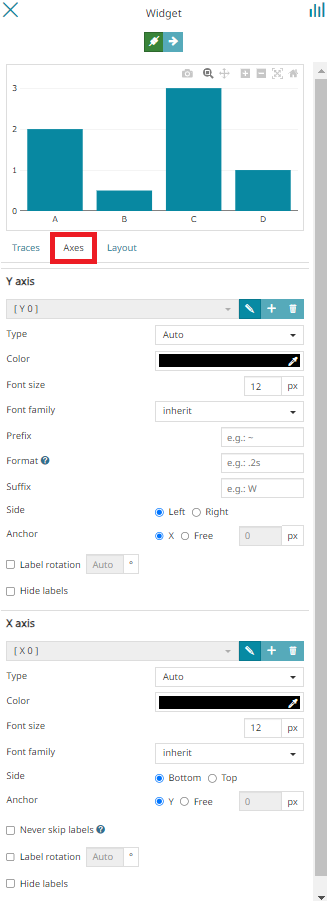
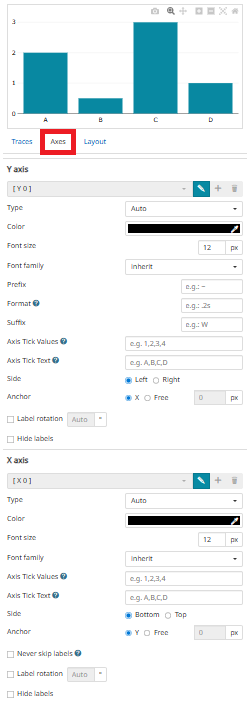
Update User Guide - Slider and APPLY DIMENSION on  Filter Widget and  Custom Tick Labels in Chart Axis (#12427)
(cherry picked from commit a5f585cbd42f79b09509369718d1c13580440a10)

diff --git a/docs/user-guide/widgets.md b/docs/user-guide/widgets.md
@@ -222,7 +222,7 @@ Through this section, for each axis, the user is allowed to:
 * Choose the **Type** (between `Auto`, `Linear`, `Category`, `Log` or `Date`): the axis type is auto-detected by looking at the data (*Auto* option is automatically managed and selected by the tool and it is usually good as default setting).
 
 !!! Note
-    If **`Date`** is selected in the *Type* option, the **Show the Current Time** setting becomes available in the *Axes* panel, allowing you to highlight the current date in the chart.
+    If **`Date`** is selected in the *Type* option, the **Highlight selected time** setting becomes available in the *Axes* panel, allowing you to highlight the current date in the chart.
     <img src="../img/widgets/show-current-time.jpg" class="ms-docimage" style="max-width:300px;"/>
     Once enabled, you can customize the appearance of the current time line using the following options:
     <img src="../img/widgets/customize-current-time.jpg" class="ms-docimage" style="max-width:300px;"/>
@@ -241,6 +241,10 @@ Through this section, for each axis, the user is allowed to:
 
 !!! Note
     More information about the syntax options allowed for **Format** are available [here](https://d3-wiki.readthedocs.io/zh_CN/master/Formatting/) in the online documentation.
+
+* Add **Axis Tick Values**, as comma-separated values, to force the axis to display only these specific points.
+
+* Add **Axis Tick Text**, as custom labels, to replace the text at the positions defined in Axis Tick Values. The alignment is strictly positional (matched by index, one label per value).
 
 * Choose the **Side** of the chart on which to display the axis labels (between `Left` or `Right`)
 
@@ -572,11 +576,17 @@ Once the user chooses to enable the **Title**, it can be customized with the fol
 
 From the **Items**, the user can perform the following actions:
 
-* Modify the type of user interaction with the items by selecting from the dropdown menu: `Checkbox`, `Button`, `Dropdown`, or `Switch`.
+* Modify the type of user interaction with the items by selecting from the dropdown menu: `Checkbox`, `Button`, `Dropdown`, `Switch` or `Slider`.
+
+!!! Warning
+    In order to apply the **Slider**, the *Selection Mode* should be on `Single`.
+
+!!! Note
+    In particular, the **Slider** can be used to view the *Time* or *Elevation* dimension. More information can be found in the following paragraph: [Applying Time and Elevation dimensions](widgets.md#applying-time-and-elevation-dimensions).
 
 <video class="ms-docimage" style="max-width:500px;" controls><source src="../img/widgets/variant-items.mp4"/></video>
 
-* Choose the selection mode for the items: `Single` or `Multiple`.
+* Choose the **Selection Mode** for the items: `Single` or `Multiple`.
 
 * Select the **Direction** of the items: `Vertical` or `Horizontal`.
 
@@ -624,6 +634,41 @@ The user can:
 An example of filter selector widget could be:
 
 <video class="ms-docimage" style="max-width:800px;" controls><source src="../img/widgets/filter-ex.mp4"/></video>
+
+#### Applying Time and Elevation dimensions
+
+The dynamic filter tool can also drive the `time` and `elevation` dimensions of WMS layers, synchronize with the map timeline, or control the *Highlight Selected Time* option of a chart (when not already driven by the timeline). If the value attribute is of type `datetime` or `number` and the selection mode is set to *Single*, the **Apply Dimension** option becomes available in the **Interactions** tab, given that there is at least one valid target available.
+
+A valid target is either a WMS layer exposing a `time` or `elevation` dimension, the *timeline* plugin, if present in the current context, or a chart with the *Highlight Selected Time* option enabled.
+
+To enable the **Apply Dimension** option in a filter, follow these steps:
+
+* In the [Data](widgets.md#data) tab, set the *Values From* option to **Attributes** and select a `datetime` or `number` attribute in the *Value Attribute* field.
+
+<img src="../img/widgets/time-attribute.jpg" class="ms-docimage"  style="max-width:450px;"/>
+
+* In the [Interactions](widgets.md#interactions) tab, click the <img src="../img/button/++++.jpg" class="ms-docbutton"/> button and select the **Apply Dimension** option.
+
+<img src="../img/widgets/apply-dimension-option.jpg" class="ms-docimage"  style="max-width:450px;"/>
+
+* Connect the filter to the layer by clicking the <img src="../img/button/connect-button.jpg" class="ms-docbutton"/> button.
+
+<img src="../img/widgets/connect-dimension.jpg" class="ms-docimage"  style="max-width:450px;"/>
+
+* To connect the filter to the map timeline, first click the <img src="../img/button/settings2.jpg" class="ms-docbutton"/> button, then enable the **2-way synchronization**.
+
+<img src="../img/widgets/connect-timeline.jpg" class="ms-docimage"  style="max-width:450px;"/>
+
+!!! Warning
+    *2 way synchronization* cannot be enabled if other nodes, aside from map timeline connection nodes, are already connected.
+
+Example of the time attribute applied to the filter selector slider:
+
+<video class="ms-docimage" controls><source src="../img/widgets/time-dimension.mp4"/></video>
+
+Example of the elevation attribute applied to the filter selector slider:
+
+<video class="ms-docimage" controls><source src="../img/widgets/elevation-dimension.mp4"/></video>
 
 ## Manage existing widgets
 